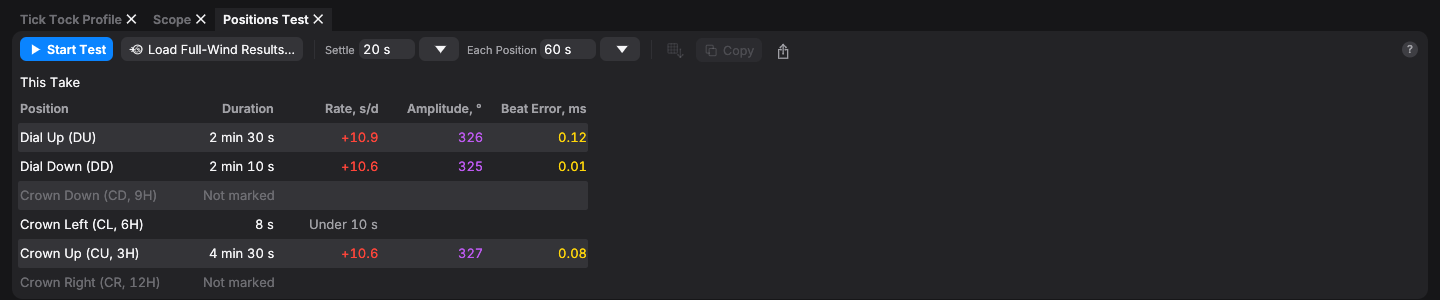
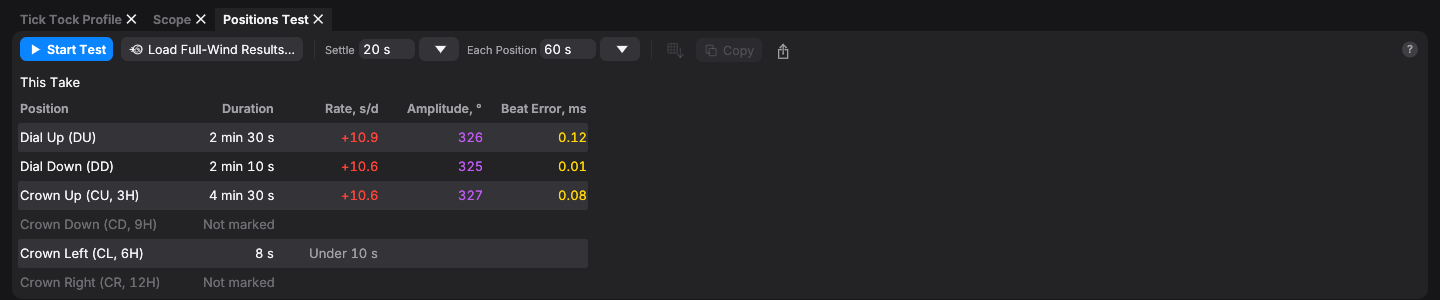
Positions table rows in the Current Position card's order; 800 and 1000 shots
Claude-Session: https://claude.ai/code/session_01GsSg6RBnTb5YLpmgbJGamZ

diff --git a/crates/timegrapher-app/src/guided.rs b/crates/timegrapher-app/src/guided.rs
@@ -1221,7 +1221,7 @@ pub enum FreeCell {
     Read(Option<f64>, Option<f64>, Option<f64>),
 }
 
-/// A free take's table: each position in the app's order with its
+/// A free take's table: each position in the card's order with its
 /// duration and readings, and the largest rate difference over the
 /// positions read. The figures are core `session::positions_table`'s.
 #[derive(Debug, Clone, PartialEq)]
@@ -1232,9 +1232,10 @@ pub struct FreeTable {
     pub read: usize,
 }
 
-/// The free take's table from core's.
+/// The free take's table from core's, in the Current Position card's
+/// order.
 pub fn free_table(t: &session::PositionsTable) -> FreeTable {
-    let rows: Vec<(String, f64, FreeCell)> = ORDER
+    let rows: Vec<(String, f64, FreeCell)> = Position::ALL
         .iter()
         .filter_map(|p| {
             let sp = session::Position::parse(p.code())?;
